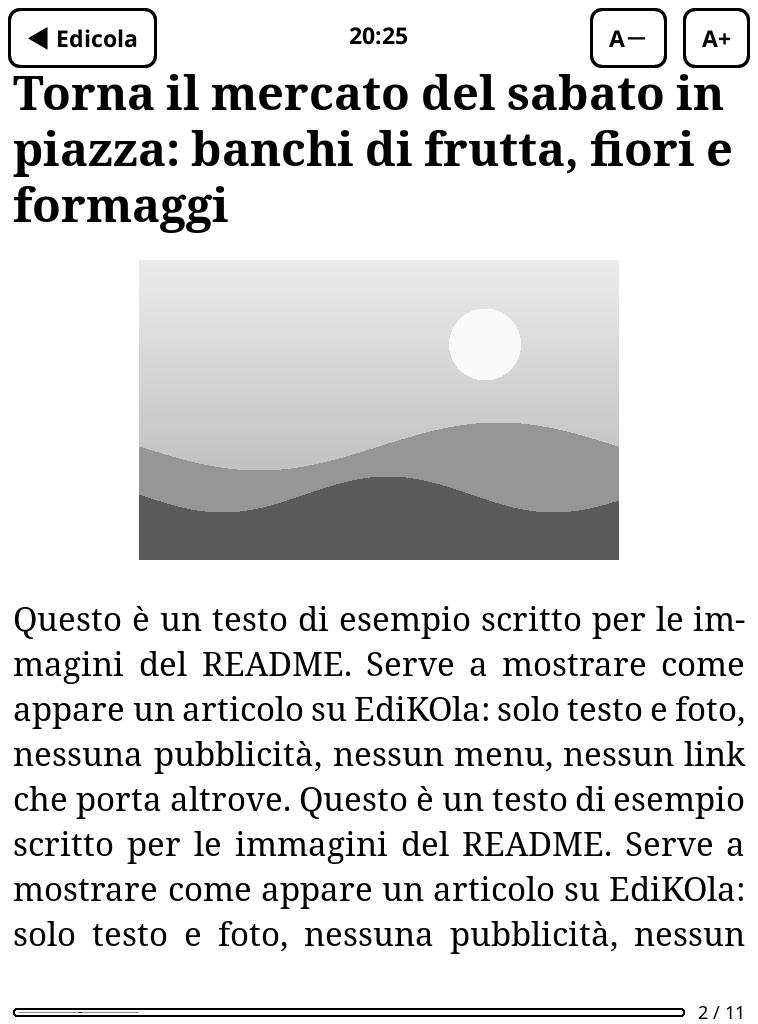
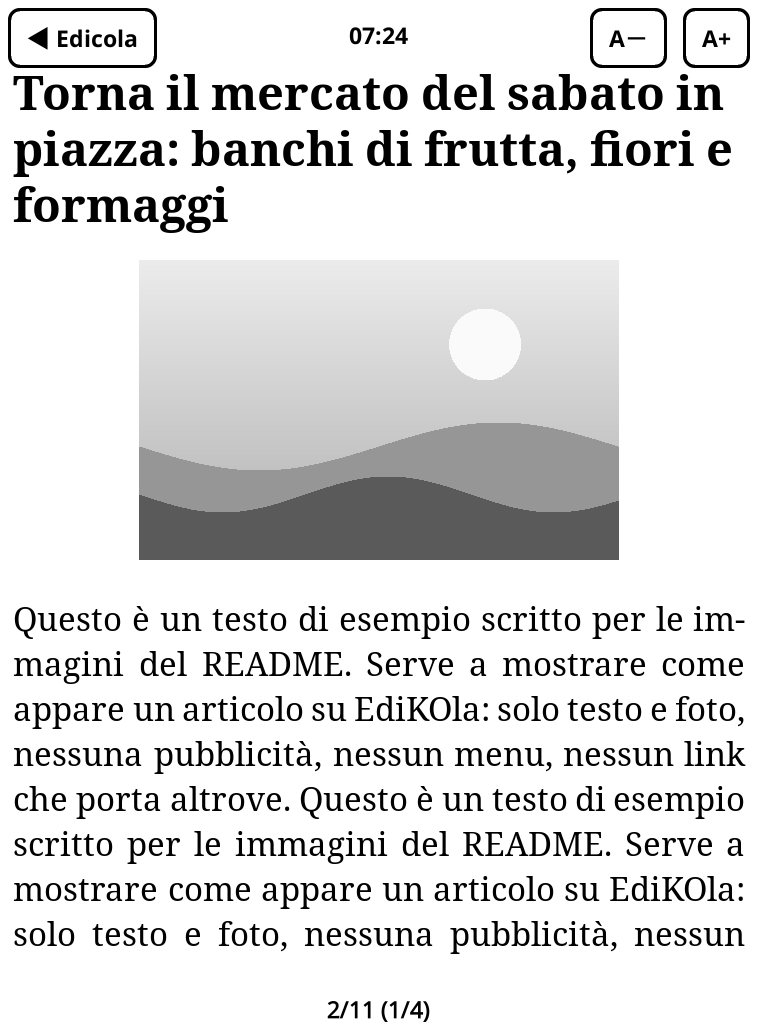
Page counter at the bottom of articles: 18/40 (1/5)
Page of the paper, then page of the article, centred and bold. KOReader's
status bar keeps only that item. Default sets are now computed only when
they apply (the new-shelves defaults were re-added on every start).

diff --git a/tools/screenshots/make_demo.py b/tools/screenshots/make_demo.py
@@ -84,7 +84,9 @@ for i, (pid, name, section, headline) in enumerate(PAPERS):
         items = "".join(f'<item id="a{n}" href="a{n}.xhtml" media-type="application/xhtml+xml"/>' for n in range(1, 4))
         spine = "".join(f'<itemref idref="a{n}"/>' for n in range(1, 4))
         z.writestr("OEBPS/content.opf", f'<?xml version="1.0" encoding="utf-8"?><package xmlns="http://www.idpf.org/2007/opf" xmlns:dc="http://purl.org/dc/elements/1.1/" unique-identifier="id" version="2.0"><metadata><dc:title>{name}</dc:title><dc:identifier id="id">demo-{pid}</dc:identifier><dc:language>it</dc:language></metadata><manifest><item id="ncx" href="toc.ncx" media-type="application/x-dtbncx+xml"/><item id="css" href="style.css" media-type="text/css"/><item id="index" href="index.xhtml" media-type="application/xhtml+xml"/>{items}<item id="cover" href="cover.png" media-type="image/png"/></manifest><spine toc="ncx"><itemref idref="index"/>{spine}</spine></package>')
-        z.writestr("OEBPS/toc.ncx", f'<?xml version="1.0" encoding="utf-8"?><ncx xmlns="http://www.daisy.org/z3986/2005/ncx/" version="2005-1"><head/><docTitle><text>{name}</text></docTitle><navMap><navPoint id="n1" playOrder="1"><navLabel><text>Prima pagina</text></navLabel><content src="index.xhtml"/></navPoint></navMap></ncx>')
+        nav = "".join(f'<navPoint id="n{n}" playOrder="{n}"><navLabel><text>{t}</text></navLabel><content src="{f}"/></navPoint>'
+                      for n, (t, f) in enumerate([("Prima pagina", "index.xhtml")] + [(t, f"a{k}.xhtml") for k, t in enumerate(titles, 1)], 1))
+        z.writestr("OEBPS/toc.ncx", f'<?xml version="1.0" encoding="utf-8"?><ncx xmlns="http://www.daisy.org/z3986/2005/ncx/" version="2005-1"><head/><docTitle><text>{name}</text></docTitle><navMap>{nav}</navMap></ncx>')
     with open(os.path.join(d, f"{today}.meta.lua"), "w", encoding="utf8") as f:
         f.write(f'return {{ headline = "{headline}", cover = "{cover}" }}\n')
 

diff --git a/CHANGES.md b/CHANGES.md
@@ -161,3 +161,17 @@ requests one after another, and every article was downloaded again on every upda
 - The first Aggiorna on the Kobo is still a full download: the editions already there have no cache yet.
 
 **Revert**: copy the plugin from git (`master` 47da7c7). The `cache/` folders can be deleted at any time.
+
+## 2026-11-03 – Change set 10: page counter at the bottom of articles
+
+**What** (`konewspaper.koplugin/main.lua`)
+- While reading, the bottom centre shows `18/40 (1/5)`: page 18 of 40 in the paper, page 1 of 5 of the
+  article. Books without a table of contents show just `18/40`. Bold, the same size as the clock.
+- Applied once at the next start (`konewspaper_defaults_v5`): KOReader's status bar keeps only that item, with
+  no progress bar, centred, and tapping it no longer changes it (`footer`, `reader_footer_mode` in `settings.reader.lua`).
+- Fix: the default sets are only computed when they apply. Before, the Buone notizie / Scienza defaults were
+  added back to the selection on every start, so a paper ticked off there could come back.
+
+**Backup**: `backup/2026-11-03_footer/` (old plugin + `settings.reader.lua`).
+
+**Revert**: copy both back from the backup.

diff --git a/README.md b/README.md
@@ -41,7 +41,8 @@ are fictional demo content (`tools/screenshots/make_demo.py`).*
   English→Italian.
 - **Text size and photos**: **A− / A+** in the top-right corner make the text smaller or bigger. Pinch and
   spread work too, and zoom PDFs. Tap a photo to see it full screen, where you can also zoom it.
-- **Clock** at the top of the screen, next to the date on the Edicola and while reading.
+- **Clock** at the top of the screen, next to the date on the Edicola and while reading. At the bottom of an article,
+  **18/40 (1/5)**: page 18 of 40 in the paper, page 1 of 5 of this article.
 - **Lock screen**: the EdiKOla newsstand drawing (`konewspaper.koplugin/lockscreen/`).
 - **Tuned for e-ink**: text size 26, a full refresh every 6 pages and on pages with photos, photos
   downloaded at about 800 px.
